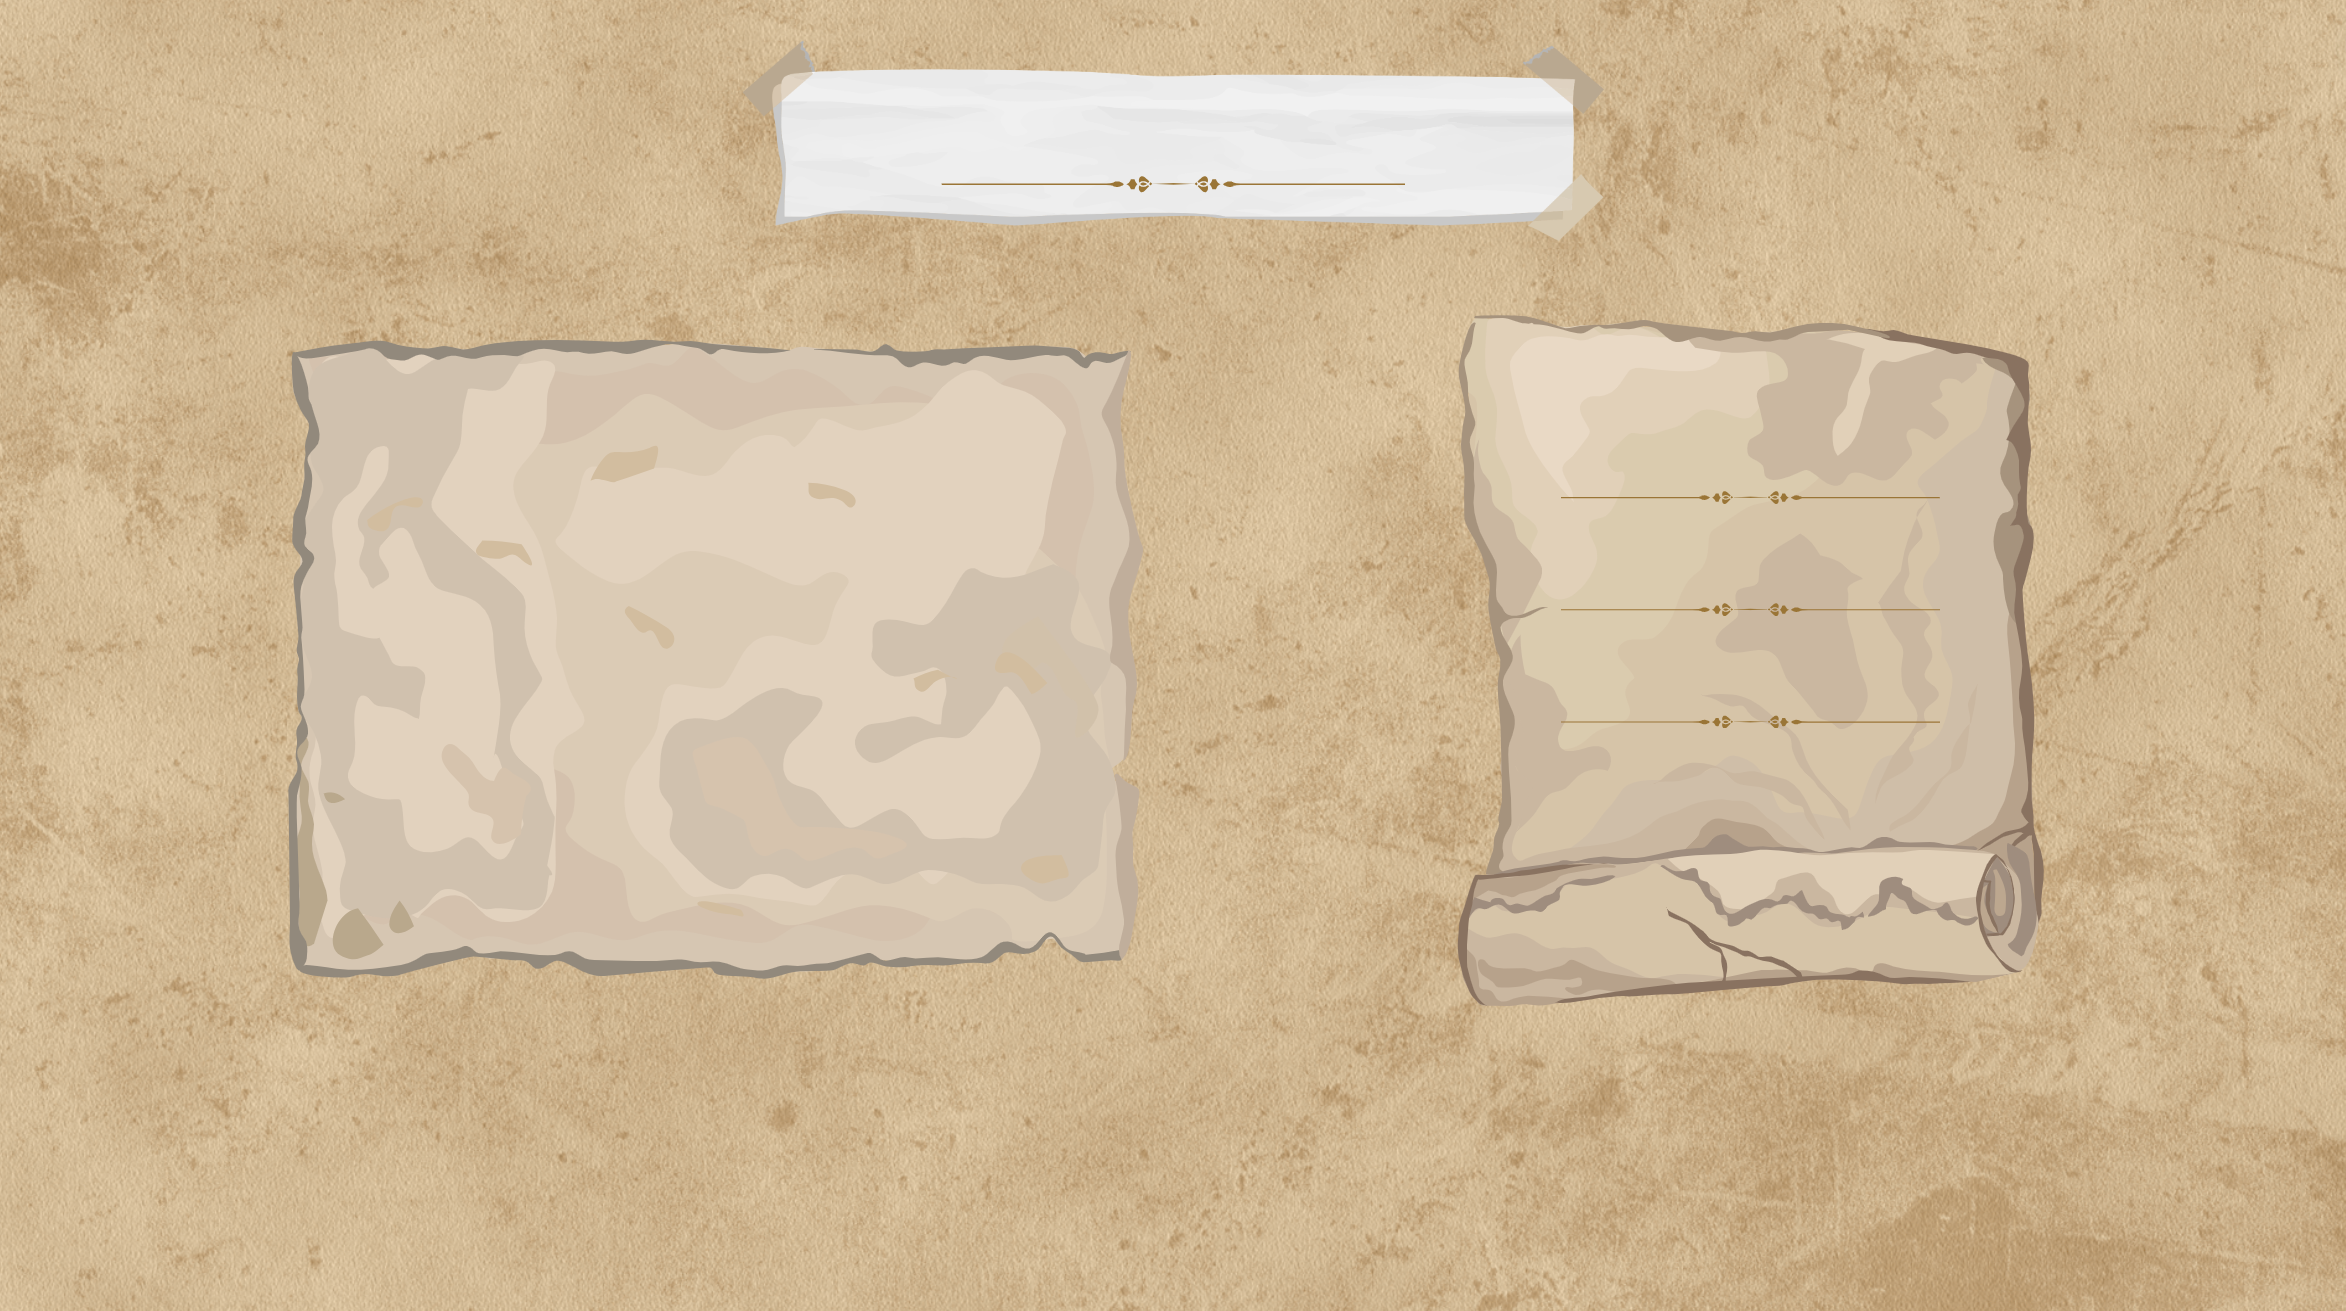
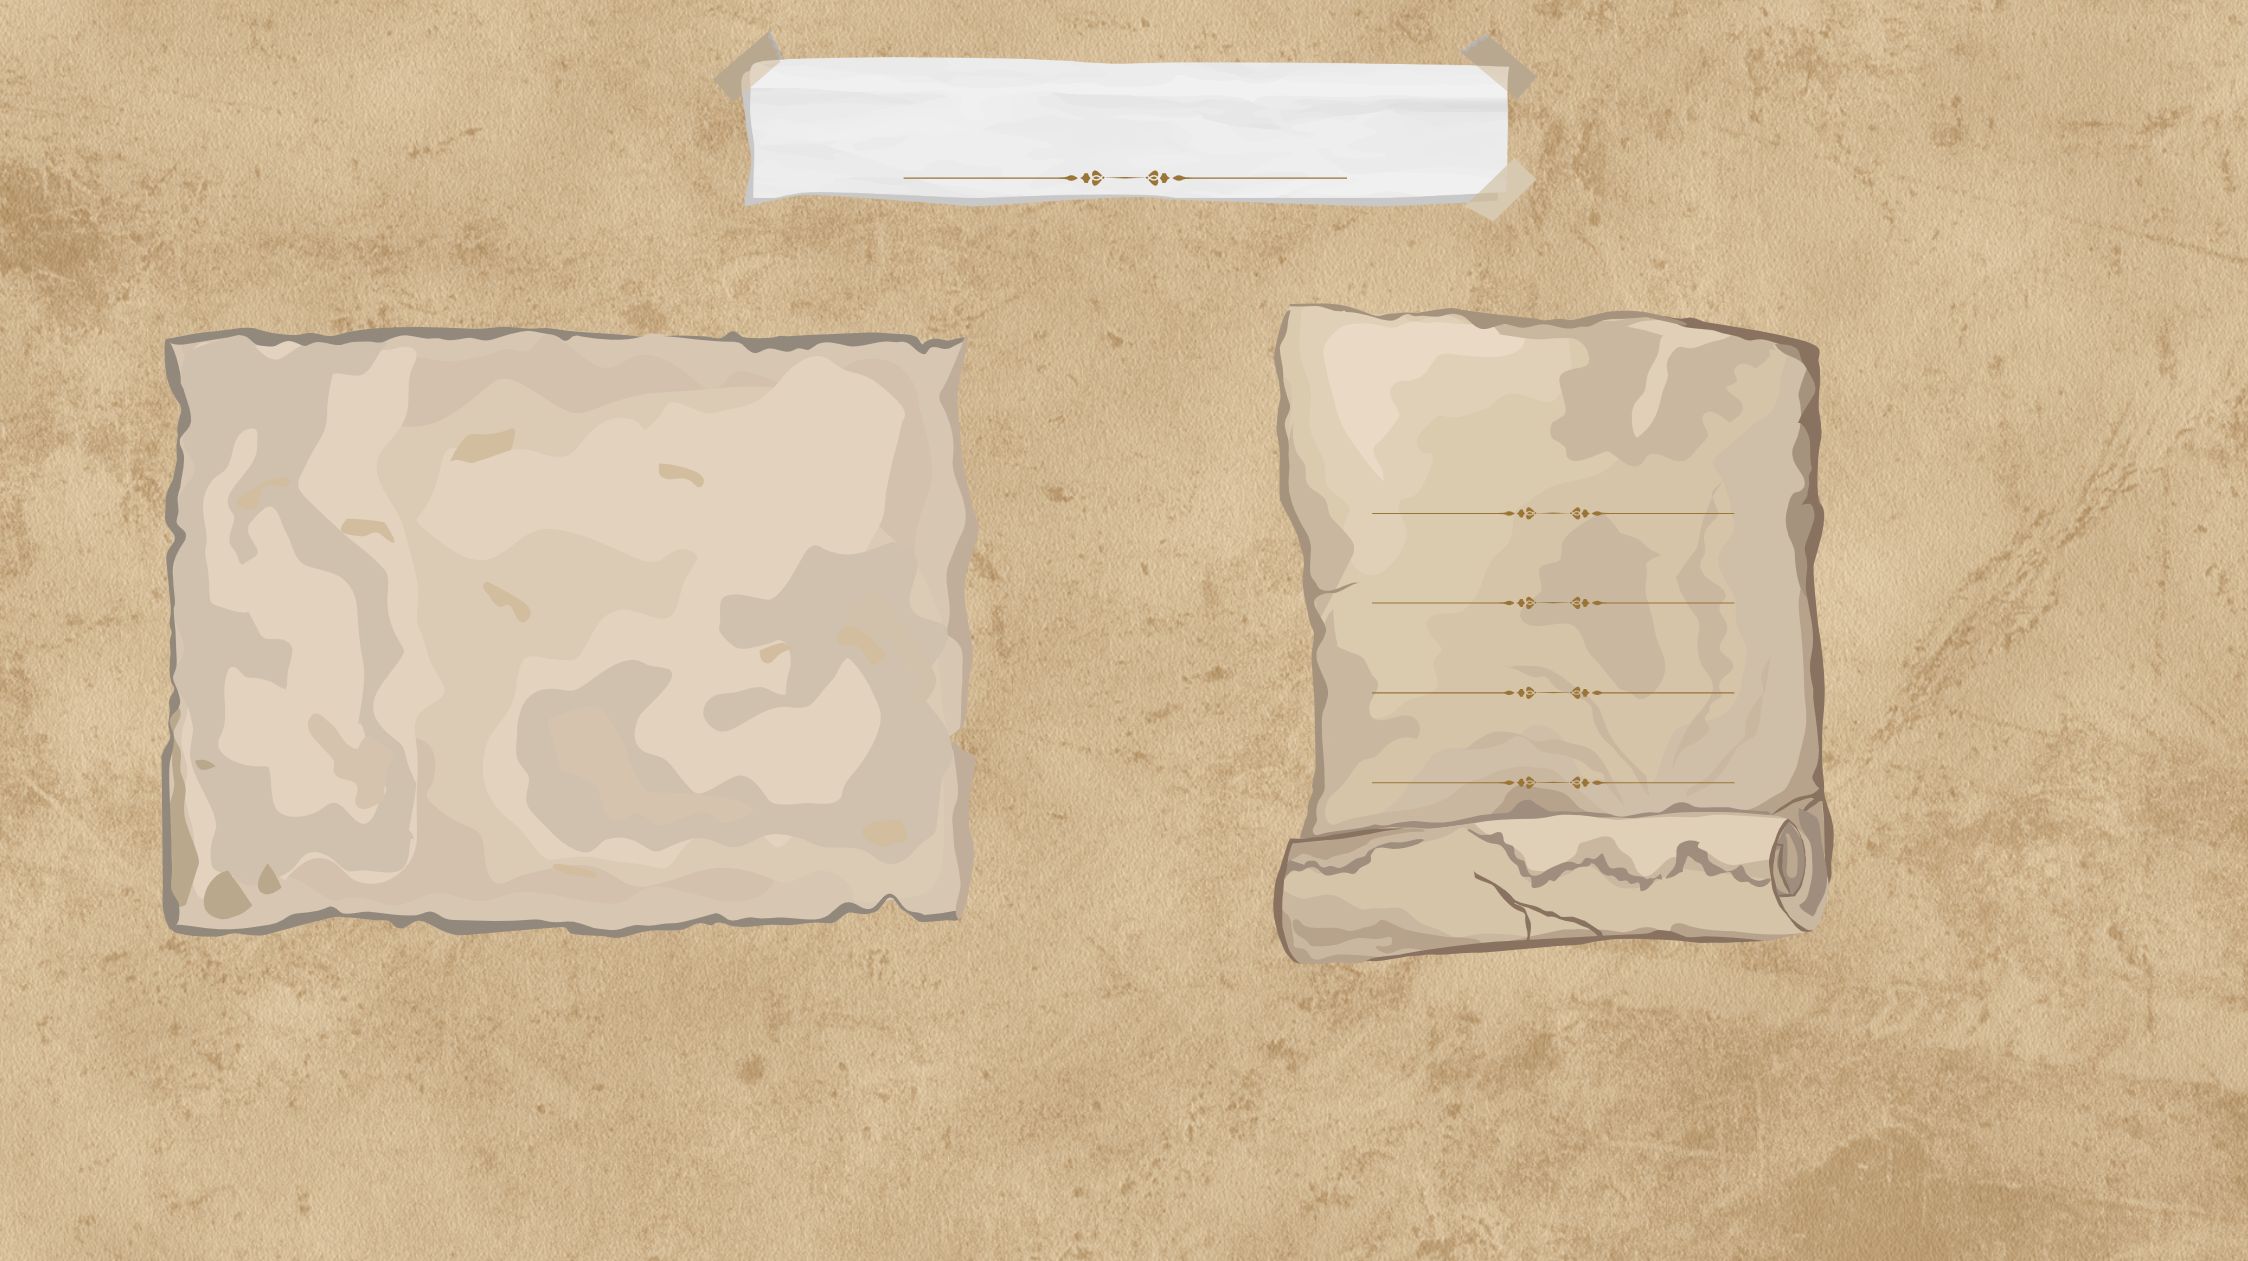
issue regarding generation of many mystery numb a the same time solved! changer background image and ajusted css so all items are centered correctly !

diff --git a/Front/src/Pages/MysteryNumberMain.jsx b/Front/src/Pages/MysteryNumberMain.jsx
@@ -42,83 +42,49 @@ const MysteryNumberMain = () => {
   const [failure, setFailure] = useState(false);
   const [mysteryNumberStorage, setMysteryNumber] = useState(null);
 
-
-  // const mysteryNumber = Math.floor(Math.random() * 100) + 1;
-  // console.log(mysteryNumber);
-
-
-
   useEffect(() => {
     setMysteryNumber(generateMysteryNumber(level));
-  }, []);
+  }, [level]); // Déclenche la génération d'un nouveau nombre mystère lorsque le niveau change
 
- const handleRestartClick = () => {
-  window.location.reload();
-
- }
+  const handleRestartClick = () => {
+    window.location.reload();
+  };
 
   const handleLevelClick = (level) => {
     setLevel(level);
     setSelectedNumber('');
-    // const mysteryNumber = generateMysteryNumber(level);
-    setMysteryNumber(generateMysteryNumber(level));
     setResult([]);
     setFailure(false);
     setSuccess(false);
-  }
+  };
 
   const generateMysteryNumber = (level) => {
     let start, end;
     if (level === 1) {
       start = 1;
       end = 10;
-    }
-    if (level === 2) {
+    } else if (level === 2) {
       start = 1;
       end = 50;
-    }
-    if (level === 3) {
+    } else if (level === 3) {
       start = 1;
       end = 100;
     }
-    return Math.floor(Math.random() * (end - start + 1)) + start;
+    const mysteryNumber = Math.floor(Math.random() * (end - start + 1)) + start;
+    setMysteryNumber(mysteryNumber);
+  console.log("Mystery number for level", level, ":", mysteryNumber);
+  return mysteryNumber
+
+
   };
 
 
-  const mysteryNumber = generateMysteryNumber(level);
   const handleNumberClick = (number) => {
     if (!gameOver) {
       setSelectedNumber(number);
-      handleResult(number, mysteryNumber);
-      console.log(selectedNumber)
+      handleResult(number, mysteryNumberStorage);
     }
   };
-
-  const levelNumbControll = () => {
-    const numbers = [];
-    let start, end;
-    if (level === 1) {
-      start = 1;
-      end = 10;
-    }
-    if (level === 2) {
-      start = 1;
-      end = 50;
-    }
-    if (level === 3) {
-      start = 1;
-      end = 100;
-    }
-    for (let i = start; i <= end; i++) {
-      numbers.push(
-        <button key={i} className="numberBtn" onClick={() => handleNumberClick(i)}>{i}</button>
-      );
-    }
-    return numbers;
-  };
-  console.log(mysteryNumber);
-
-
   const handleResult = (number, mysteryNumber) => {
     let message = '';
     if (chance < 3) {
@@ -137,19 +103,50 @@ const MysteryNumberMain = () => {
         setSuccess(true);
       }
       setChance(chance + 1);
-
     } else {
-      message = (
-        <div className='resultMessage'>
-          <p>{chance === 3 ? `${chance}rd Try : ${number} ? ... ! ` : ''}</p>
-          <p>Sorry, you ran out of chances. The mystery number was {mysteryNumberStorage}</p>
-        </div>
-      );
+      if (number === mysteryNumberStorage) {
+        message = (
+          <div className='resultMessage'>
+            <p>{chance}rd Try : {number} ? ... !</p>
+            <p>Congratulations! You guessed the mystery number</p>
+          </div>
+        );
+        setSuccess(true);
+      } else {
+        message = (
+          <div className='resultMessage'>
+            <p>{chance}rd Try : {number} ? ... !</p>
+            <p>Sorry, you ran out of chances. The mystery number was {mysteryNumberStorage}</p>
+          </div>
+        );
+        setFailure(true);
+      }
       setGameOver(true);
-      setFailure(true);
-
     }
     setResult(prevResult => prevResult.concat(message));
+  };
+  
+
+  
+  const levelNumbControll = () => {
+    const numbers = [];
+    let start, end;
+    if (level === 1) {
+      start = 1;
+      end = 10;
+    } else if (level === 2) {
+      start = 1;
+      end = 50;
+    } else if (level === 3) {
+      start = 1;
+      end = 100;
+    }
+    for (let i = start; i <= end; i++) {
+      numbers.push(
+        <button key={i} className="numberBtn" onClick={() => handleNumberClick(i)}>{i}</button>
+      );
+    }
+    return numbers;
   };
 
   return (
@@ -166,29 +163,23 @@ const MysteryNumberMain = () => {
             <button className={level === 1 ? 'level active' : 'level'} onClick={() => handleLevelClick(1)}>Level 1</button>
             <button className={level === 2 ? 'level active' : 'level'} onClick={() => handleLevelClick(2)}>Level 2</button>
             <button className={level === 3 ? 'level active' : 'level'} onClick={() => handleLevelClick(3)}>Level 3</button>
-
           </div>
-
         </div>
 
         <div className='restartSection'>
-        <img src={restartImage} className="restartImage" />
+          <img src={restartImage} className="restartImage" />
           <button className='restartbtn' onClick={handleRestartClick}>Restart</button>
         </div>
 
-
-<div className='right'>
-
-<div className='gameOver'>
-        {success && <img src={succesImage} alt="Success" />}
-        {failure && <img src={failedImage} alt="Failure" />}
+        <div className='right'>
+          <div className='gameOver'>
+            {success && <img src={succesImage} alt="Success" />}
+            {failure && <img src={failedImage} alt="Failure" />}
+          </div>
+          <div className='result'>{result.map((message, index) => (
+            <p key={index}>{message}</p>
+          ))}</div>
         </div>
-        <div className='result'>{result.map((message, index) => (
-          <p key={index}>{message}</p>
-        ))}</div>
-        
-       
-      </div>
       </div>
     </div>
   );

diff --git a/Front/src/Pages/MysteryNumberMain.css b/Front/src/Pages/MysteryNumberMain.css
@@ -35,7 +35,7 @@
 	display: flex;
 	align-items: center;
 	margin-top: 230px;
-	margin-left: 350px;
+	margin-left: 235px;
 }
 
 .mysteryNumberGame .left .numbers {
@@ -85,24 +85,26 @@
 	width: 400px;
 	height: 500px;
 	display: flex;
-	margin-top: 190px;
+	margin-top: 180px;
 	flex-direction: column;
 	align-items: center;
 	justify-content: flex-start;
-	margin-left: 470px;
+	margin-left: 453px;
 	padding: 5px;
+
 }
 
 
 .gameOver {
 	width: 400px;
 	height: 120px;
+	margin-top: 0px;
+
 }
 
 .mysteryNumberGame .right .gameOver img {
 	width: 100px;
 	height: 100px;
-	margin-right: 350px;
 }
 
 .result {
@@ -111,19 +113,20 @@
 	display: flex;
 	flex-direction: column;
 	align-items: center;
-	gap: 10px;
+	gap: 60px;
 }
 
 .result .resultMessage {
 	display: flex;
 	flex-direction: column;
 	align-items: center;
+	gap: 50px;
+
 
 }
 
 .mysteryNumberGame .right p {
 	font-size: 25px;
-	margin-top: 25px;
 }
 
 .restartSection {
@@ -132,7 +135,7 @@
 	height: 100px;
 	position: absolute;
 	top: 43%;
-	left: 50%;
+	left: 47.5%;
 
 }
 
